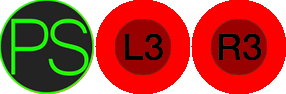
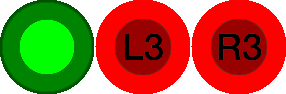
Add files via upload

Changed region(s): [[0.0, 0.0, 0.3357, 1.0]]

diff --git a/PETSEP/final.css b/PETSEP/final.css
@@ -1,279 +1,38 @@
-/*BEGIN PS4 Controller Styling*/
-.controller.ds4 {
-    background: url(ps4-assets/base.svgz);
-    height: 598px;
-    width: 806px;
-    /*    margin-left: -403px;
-        margin-top: -280px;*/
+/*BEGIN PS4 White Controller Styling*/
+.controller.ds4.white {
+    background-image: url(ps4-white-assets/basemod.png);
 }
 
-.ds4.disconnected {
-    background: url(basemod.png);
+.ds4.white.disconnected {
+    background: url(ps4-assets/disconnected.svgz);
 }
 
-.ds4.disconnected div {
-    display: none;
+.ds4.white .trigger {
+    background-image: url(ps4-white-assets/triggersmod.png);
 }
 
-.ds4 .triggers {
-    width: 588px;
-    height: 90px;
-    position: absolute;
-    left: 109px;
+.ds4.white .bumper {
+    background-image: url(ps4-white-assets/bumpermod.png);
 }
 
-.ds4 .trigger {
-    width: 99px;
-    height: 100%;
-    background: url(triggersmod.png);
-    opacity: 0;
+.ds4.white .touchpad.pressed {
+    background-image: url(ps4-white-assets/touchpad.svgz);
 }
 
-.ds4 .trigger.left {
-    float: left;
+.ds4.white .back, .ds4 .start {
+    background-image: url(ps4-white-assets/startmod.png);
 }
 
-.ds4 .trigger.right {
-    float: right;
-    background-position-x: 99px;
+.ds4.white .button {
+    background-image: url(ps4-white-assets/facemod.png);
 }
 
-.ds4 .bumper {
-    width: 99px;
-    height: 23px;
-    background: url(ps4-assets/bumpermod.png) no-repeat;
-    opacity: 0;
+.ds4.white .stick {
+    background-image: url(ps4-white-assets/sticksmod.png);
 }
 
-.ds4 .bumpers {
-    position: absolute;
-    width: 588px;
-    height: 23px;
-    left: 109px;
-    top: 94px;
+.ds4.white .face {
+    background-image: url(ps4-white-assets/dpadmod.png);
 }
 
-.ds4 .bumper.pressed {
-    opacity: 1;
-}
-
-.ds4 .bumper.left {
-    /* -webkit-transform: rotateY(180deg); */
-    /* transform: rotateY(180deg); */
-    float: left;
-}
-
-.ds4 .bumper.right {
-    float: right;
-    transform: rotateY(180deg);
-}
-
-.ds4 .touchpad {
-    width: 262px;
-    height: 151px;
-    position: absolute;
-    left: 272px;
-    top: 122px;
-}
-
-.ds4 .touchpad.pressed {
-    background: url(ps4-assets/touchpad.svgz) no-repeat center;
-}
-
-.ds4 .meta {
-    width: 42px;
-    height: 42px;
-    position: absolute;
-    left: 382px;
-    bottom: 216px;
-}
-
-.ds4 .meta.pressed {
-    background: url(ps4-assets/meta.svgz) no-repeat center;
-}
-
-/*Not needed, but I like keeping them here for posterity*/
-/*.ds4 .quadrant{
-position: absolute;
-background: url(ps4-assets/player-n.svgz);
-height: 17px;
-width: 111px;
-top: 140px;
-left: 240px;
-}
-.ds4 .p0{
-background-position: 0 -6px;
-}
-.ds4 .p1{
-background-position: 0 -28px;
-}
-.ds4 .p2{
-background-position: 0 -49px;
-}
-.ds4 .p3{
-background-position: 0 -70px;
-}*/
-.ds4 .arrows {
-    position: absolute;
-    width: 352px;
-    height: 46px;
-    top: 142px;
-    left: 227px;
-}
-
-.ds4 .back, .ds4 .start {
-    background: url(ps4-assets/startmod.png);
-    width: 28px;
-    height: 46px;
-    opacity: 0;
-}
-
-.ds4 .back.pressed, .ds4 .start.pressed {
-    /* background-position-y: -21px; */
-    /* margin-top: 2px; */
-    opacity: 1;
-}
-
-.ds4 .back {
-    float: left;
-    /* width: 28px; */
-}
-
-.ds4 .start {
-    float: right;
-    /* width: 28px; */
-    background-position: 28px 0;
-}
-
-.ds4 .abxy {
-    position: absolute;
-    width: 170px;
-    height: 171px;
-    top: 159px;
-    left: 567px;
-}
-
-.ds4 .button {
-    position: absolute;
-    width: 55px;
-    height: 55px;
-    background: url(ps4-assets/facemod.png);
-}
-
-.ds4 .button.pressed {
-    background-position-y: 55px;
-    /* margin-top: 5px; */
-}
-
-.ds4 .a {
-    background-position: 0 0;
-    bottom: 0;
-    left: 58px;
-}
-
-.ds4 .b {
-    background-position: -57px 0;
-    top: 58px;
-    right: 0px;
-}
-
-.ds4 .x {
-    background-position: -113px 0;
-    top: 58px;
-}
-
-.ds4 .y {
-    background-position: 55px 0;
-    left: 58px;
-}
-
-.ds4 .sticks {
-    position: absolute;
-    width: 361px;
-    height: 105px;
-    top: 308px;
-    left: 228px;
-}
-
-.ds4 .stick {
-    position: absolute;
-    background: url(ps4-assets/sticksmod.png);
-    height: 94px;
-    width: 94px;
-}
-
-.ds4 .stick.pressed.left {
-    background-position-x: -96px;
-}
-
-.ds4 .stick.pressed.right {
-    background-position-x: -192px;
-}
-
-.ds4 .stick.left {
-    top: 0;
-    left: 0;
-}
-
-.ds4 .stick.right {
-    top: calc(100% - 105px);
-    left: calc(100% - 105px);
-}
-
-.ds4 .dpad {
-    position: absolute;
-    width: 125px;
-    height: 126px;
-    top: 181px;
-    left: 92px;
-}
-
-.ds4 .face {
-    background: url(ps4-assets/dpadmod.png);
-    position: absolute;
-}
-
-.ds4 .face.up, .ds4 .face.down {
-    width: 36px;
-    height: 52px;
-}
-
-.ds4 .face.left, .ds4 .face.right {
-    width: 52px;
-    height: 36px;
-}
-
-.ds4 .face.up {
-    left: 44px;
-    top: 0;
-    background-position: -37px 0px;
-}
-
-.ds4 .face.down {
-    left: 44px;
-    bottom: 0;
-    background-position: 0px 0;
-}
-
-.ds4 .face.left {
-    top: 45px;
-    left: 0;
-    background-position: 104px 0;
-}
-
-.ds4 .face.right {
-    top: 45px;
-    right: 0px;
-    background-position: 52px 0;
-}
-
-.ds4 .face.pressed {
-    /* margin-top: 5px; */
-    background-position-y: 52px;
-}
-
-.ds4.half {
-    margin-top: -300px;
-}
-
-/*END PS4 Controller Styling*/
+/*END PS4 White Controller Styling*/
